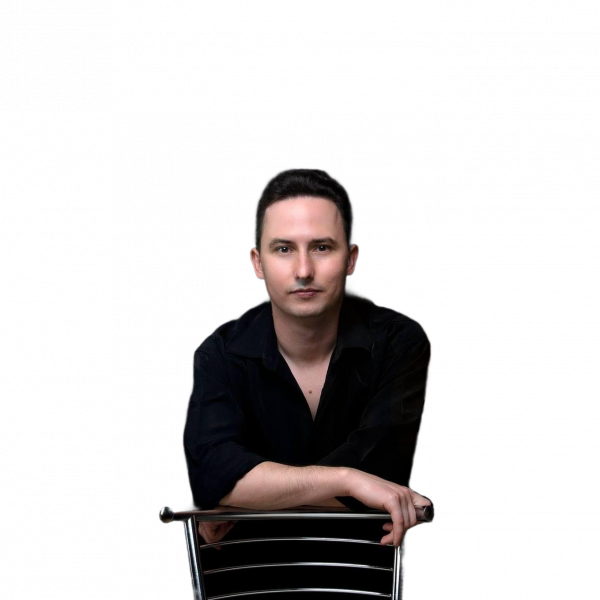
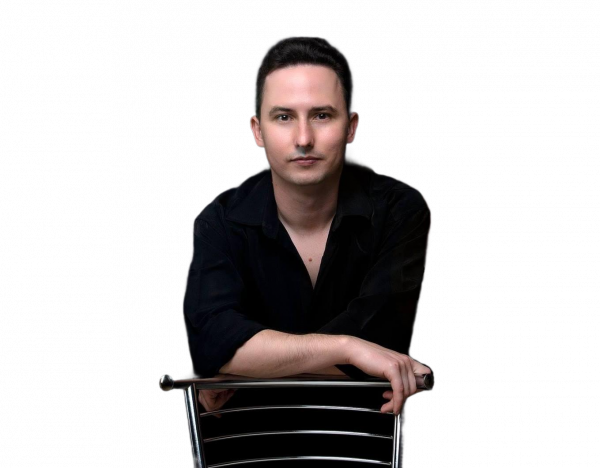
media header

Changed region(s): [[0.24, 0.0598, 0.75, 1.0]]

diff --git a/index.html b/index.html
@@ -14,7 +14,8 @@
         <!-- header nav -->
         <div class="header-nav">
           <a href="#!" class="logo">Aleksandr</a>
-          <nav class="nav">
+
+          <nav id="nav" class="nav">
             <ul class="nav-list">
               <li class="nav-item">
                 <a href="#!" class="nav-link active">Home</a>
@@ -28,6 +29,13 @@
                 <a href="#!" class="nav-link">Contact</a>
               </li>
             </ul>
+            <button id="nav-btn" class="nav-button">
+              <img
+                id="nav-btn-img"
+                src="./img/icons/nav-open.svg"
+                alt="Nav button"
+              />
+            </button>
           </nav>
         </div>
         <!-- header content -->
@@ -35,7 +43,7 @@
           <div class="header-content">
             <h1 class="header-heading">
               Aleksandr Aniskevych <br />
-              Junior Frontend (React) Developer
+              <span>Junior Frontend (React) Developer</span>
             </h1>
             <p>
               Competitive and proactive junior front end developer with strong
@@ -45,7 +53,13 @@
             </p>
           </div>
           <div class="header-img">
-            <img src="./img/header/Aleksandr-black.png" alt="Aleksandr" />
+            <picture>
+              <sourse
+                media="(max-width: 799px)"
+                srcset="./img/header/Aleksandr-black mobile.png"
+              />
+              <img src="./img/header/Aleksandr-black.png" alt="Aleksandr" />
+            </picture>
           </div>
         </div>
       </div>
@@ -151,8 +165,10 @@
         </div>
 
         <div class="contacts-content">
-          <p>Want to know more or just chat? <br>
-            You are welcome!</p>
+          <p>
+            Want to know more or just chat? <br />
+            You are welcome!
+          </p>
         </div>
 
         <div class="contacts-button">
@@ -160,11 +176,16 @@
         </div>
 
         <div class="contacts-social">
-          <a href="#!"><img src="./img/socials/LinkedIn.svg" alt="LinkedIn"></a>
+          <a href="#!"
+            ><img src="./img/socials/LinkedIn.svg" alt="LinkedIn"
+          /></a>
         </div>
 
         <div class="contacts-footer">
-          <p>Like me on <br> LinkedIn</p>
+          <p>
+            Like me on <br />
+            LinkedIn
+          </p>
         </div>
       </div>
     </footer>

diff --git a/css/media.css b/css/media.css
@@ -1,0 +1,71 @@
+@media (max-width: 1230px) {
+    .nav-list {
+        display: none;
+    }
+
+    .nav-button {
+        display: block;
+    }
+
+    .nav.open .nav-list {
+        position: fixed;
+        top: 0;
+        bottom: 0;
+        left: 0;
+        right: 0;
+        background-color: #FFFFFF;
+        z-index: 1;
+        padding: 46px 30px;
+        display: flex;
+        flex-direction: column;
+        row-gap: 40px;
+        font-size: 34px;
+        font-weight: 600px;
+
+
+    }
+
+    .nav-link {
+        color: #828282;
+    }
+
+    .nav-link.active {
+        color: #000;
+    }
+
+    .nav-button {
+        position: fixed;
+        z-index: 9;
+        top: 46px;
+        right: 30px;
+    }
+
+    .header-nav {
+        margin-bottom: 50px;
+    }
+
+    .header-row {
+        flex-direction: column;
+        row-gap: 10px;
+    }
+
+    .header-content {
+        margin-top: 0;
+    }
+
+    .header-img {
+        text-align: center;
+    }
+
+}
+
+@media (max-width: 700px) {
+    .header-heading {
+        font-size: 34px;
+        line-height: 1.3;
+    }
+
+    .header-heading span {
+        font-size: 28px;
+    }
+}

diff --git a/js/main.js b/js/main.js
@@ -1,0 +1,13 @@
+const nav = document.querySelector('#nav')
+const navBtn = document.querySelector('#nav-btn')
+const navBtnImg = document.querySelector('#nav-btn-img')
+
+console.log(nav)
+
+navBtn.onclick = () => {
+    if (nav.classList.toggle('open')) {
+        navBtnImg.src = "./img/icons/nav-close.svg"
+    } else {
+        navBtnImg.src = "./img/icons/nav-open.svg"
+    }
+} 

diff --git a/css/main.css b/css/main.css
@@ -78,7 +78,6 @@ body {
 
 /* nav */
 
-.nav {}
 
 .nav-list {
     display: flex;
@@ -87,7 +86,9 @@ body {
     font-size: 14px;
 }
 
-.nav-item {}
+.nav-button {
+    display: none;
+}
 
 .nav-link {
     color: #000;
